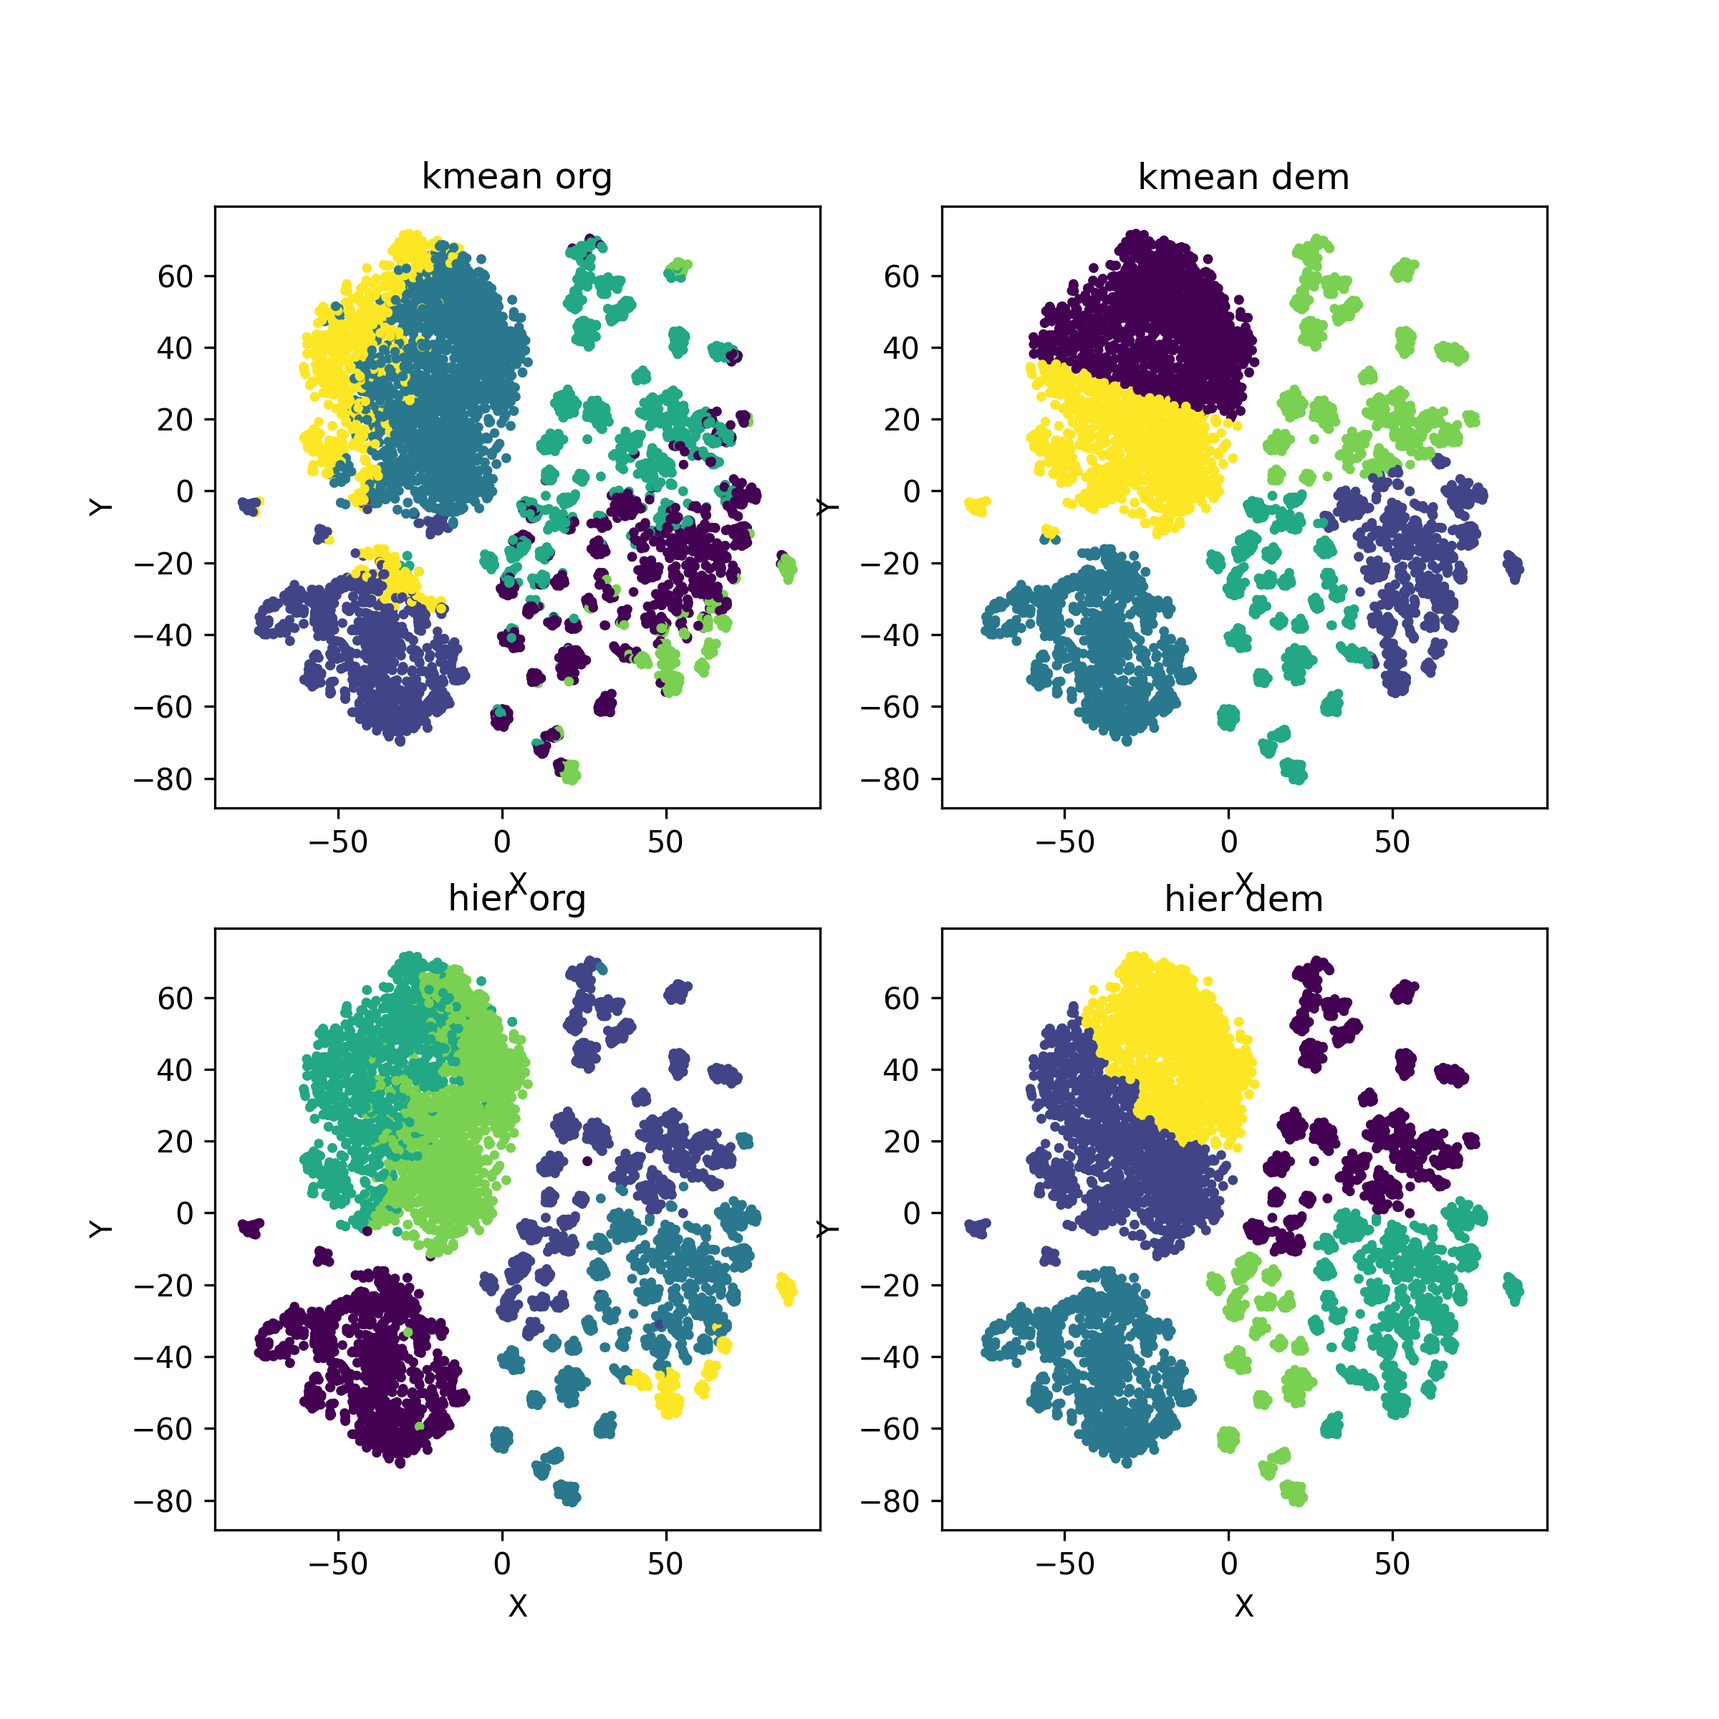
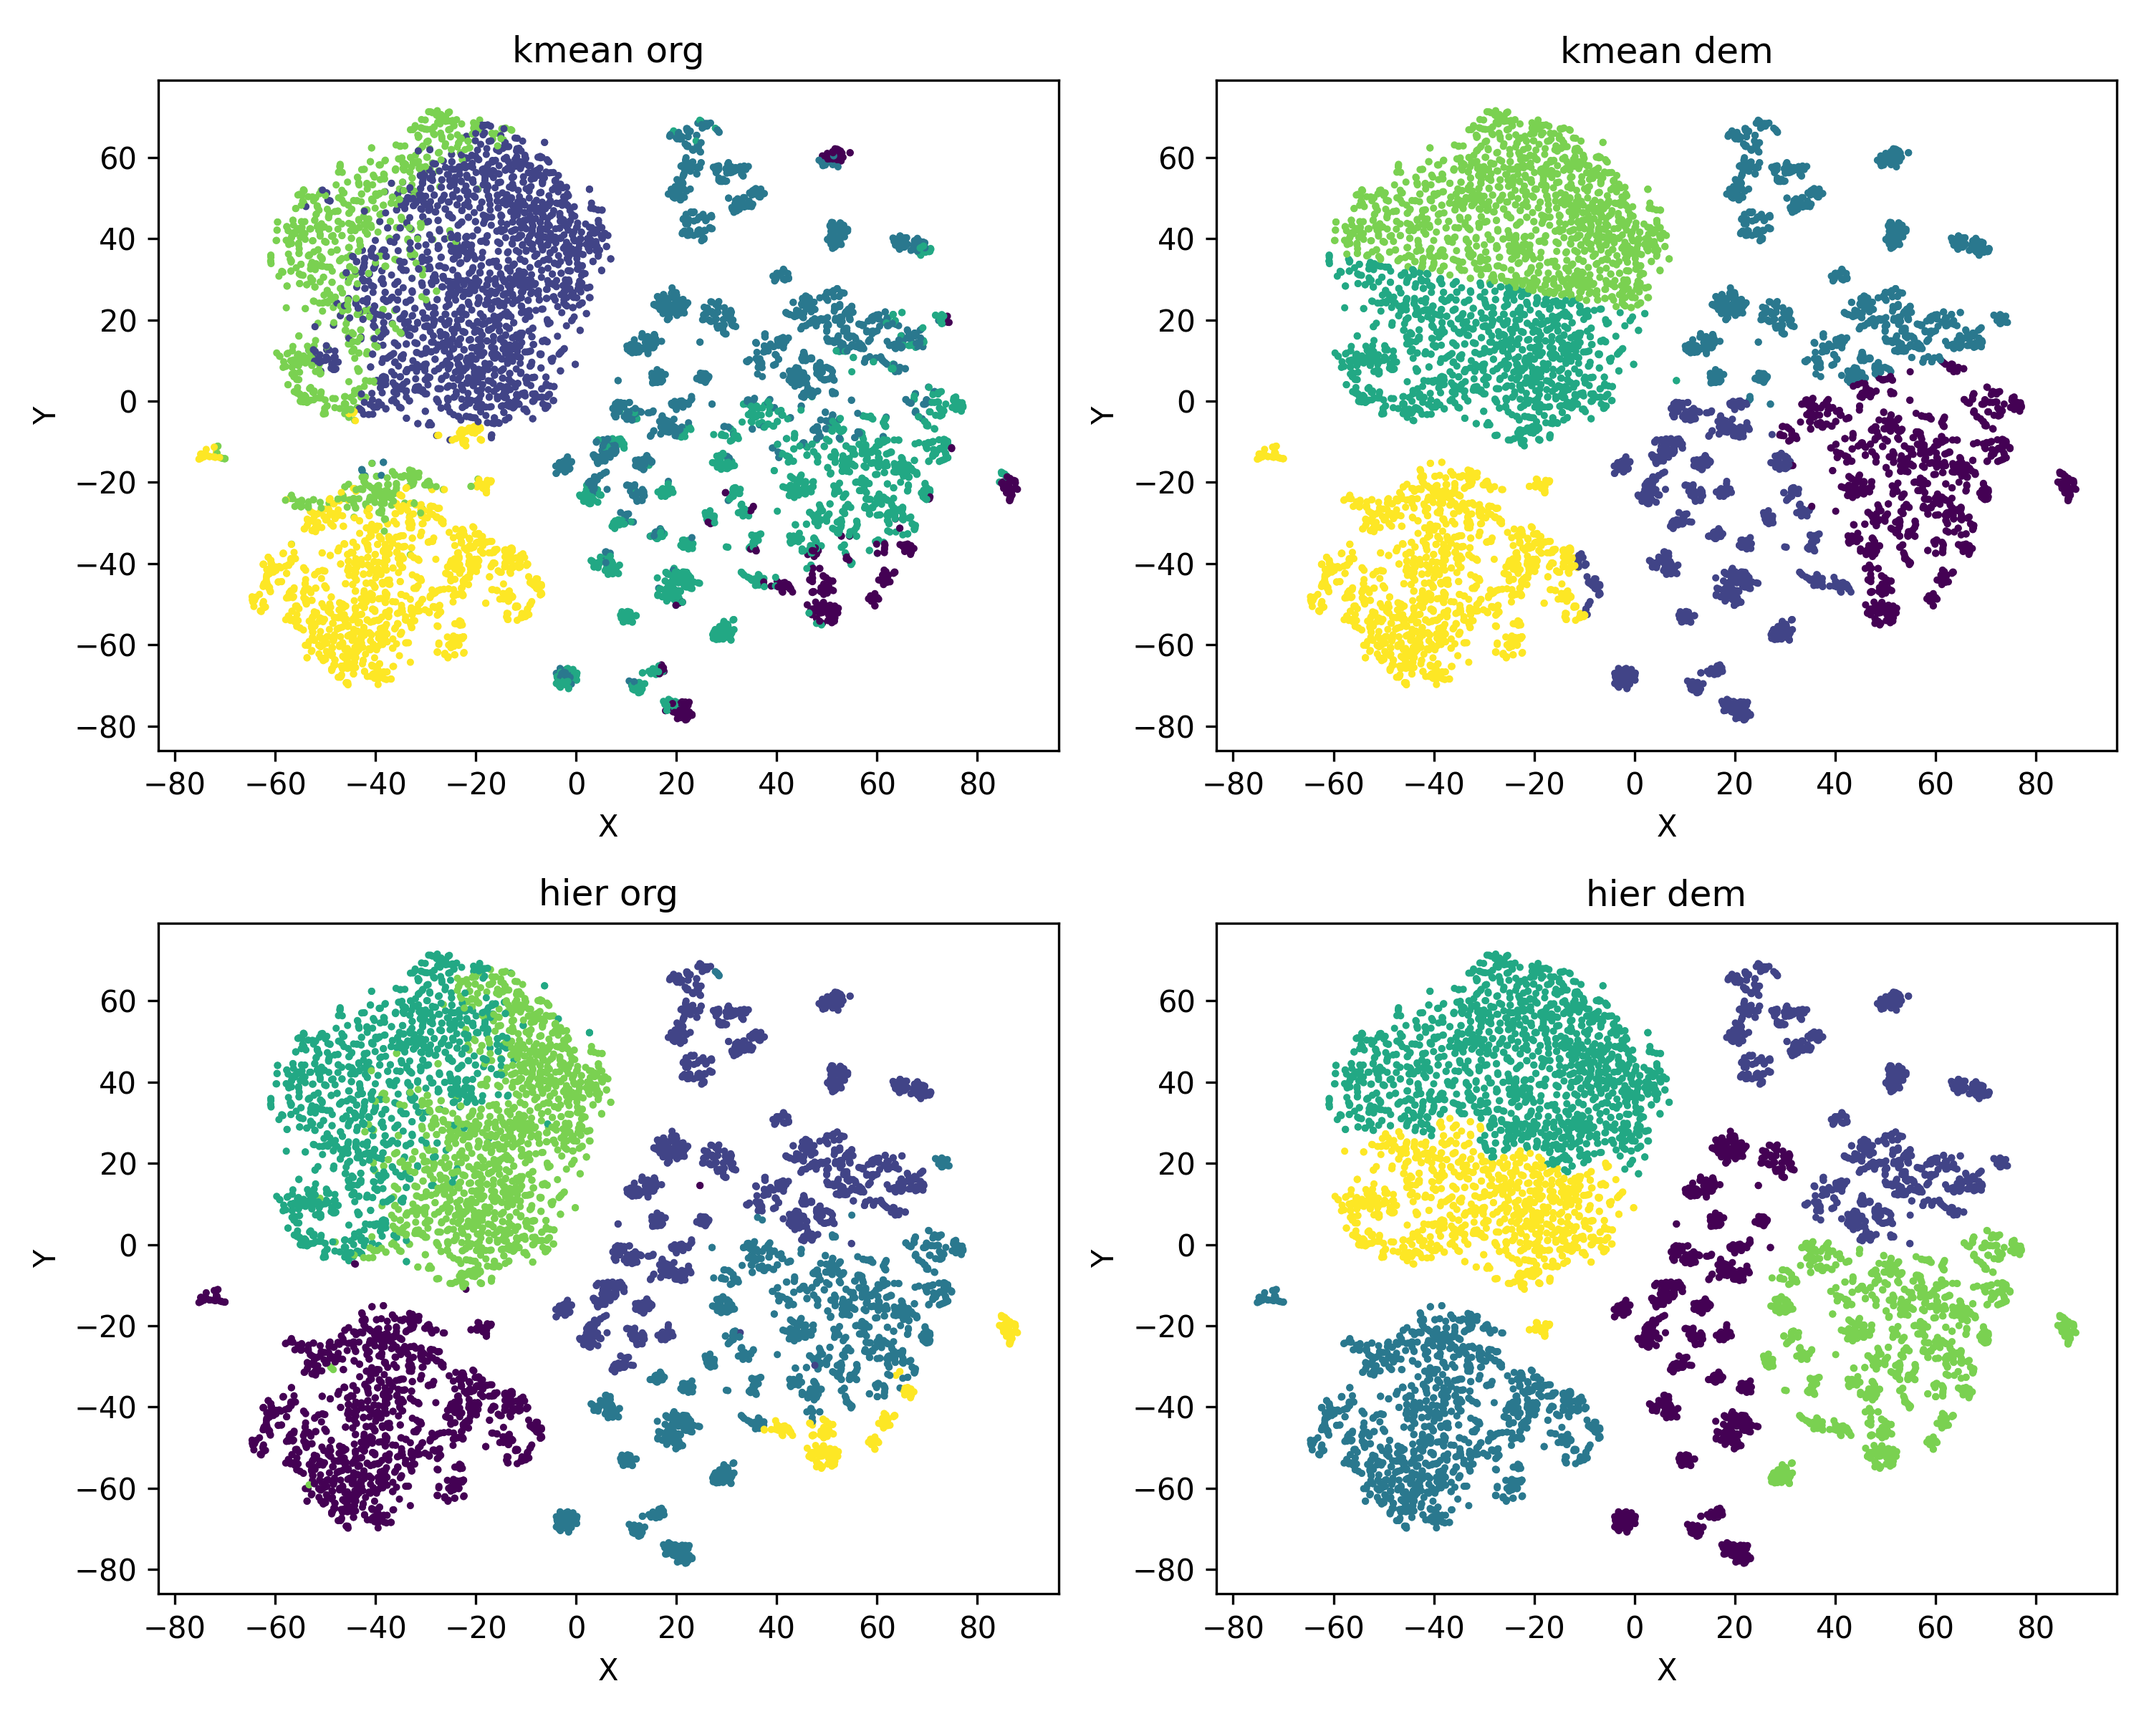
Update DSAA2011 Proj

diff --git a/DSAA2011/Proj/visualize.py b/DSAA2011/Proj/visualize.py
@@ -22,46 +22,63 @@ def plot(
         x = list[np.ndarray] | np.ndarray, 
         y = list[np.ndarray] | np.ndarray, 
         dim_target : int | list[int] = 3, 
-        need_dimension_reduction : bool | list[bool] = True,
-        name : list[str] | None = None,
+        name : list[str] | str | None = None,
+        label : dict[str] | None = None,
         save_path = None,
         ) :
     
     if type(x) == np.ndarray : x = [x]
-    if type(y) == np.ndarray : y = [y]
+    if type(y) == np.ndarray : y = [y] * len(x)
     if type(dim_target) == int : dim_target = [dim_target] * len(x)
-    if type(need_dimension_reduction) == bool : need_dimension_reduction = [need_dimension_reduction] * len(x)
+    if type(name) == str : name = [name] * len(x)
 
-    if len(x) != len(y) or len(x) != len(dim_target) or len(x) != len(need_dimension_reduction) :
+    if len(x) != len(y) or len(x) != len(dim_target) :
         raise ValueError("x, y, dim_target, need_dimension_reduction must have the same length")
     
     nrow = 1 if len(x) <= 3 else 2
     ncol = int(math.ceil(len(x) / nrow))
 
-    fig = plt.figure(figsize=(8, 8))
+    fig = plt.figure(figsize=(10, 8))
 
     if name is None :
         name = [f"Plot {i}" for i in range(len(x))]
 
     # write each plot in a different subplot
     for i in range(len(x)) :
+        
         if dim_target[i] == 2 :
             ax = fig.add_subplot(nrow, ncol, i + 1)
-            if need_dimension_reduction[i] :
-                x[i] = dimension_reduction(x[i], dim_target[i])
-            ax.scatter(x[i][:, 0], x[i][:, 1], c=y[i], s=5)
-            ax.set_title(name[i])
-            ax.set_xlabel("X")
-            ax.set_ylabel("Y")
+            if label is not None :
+                y_min = np.min(y[i])
+                y_max = np.max(y[i])
+
+                cmap = matplotlib.colormaps.get_cmap('viridis')
+                colors = [cmap((i - y_min) / (y_max - y_min)) for i in range(int(y_min), int(y_max) + 1)]
+                for j in range(int(y_min), int(y_max) + 1) :
+                    ax.scatter(x[i][y[i] == j, 0], x[i][y[i] == j, 1], s=2, color=colors[j - int(y_min)], label=label[j])
+            else :
+                ax.scatter(x[i][:, 0], x[i][:, 1], c=y[i], s=2)
         elif dim_target[i] == 3 :
             ax = fig.add_subplot(nrow, ncol, i + 1, projection='3d')
-            if need_dimension_reduction[i] :
-                x[i] = dimension_reduction(x[i], dim_target[i])
-            ax.scatter(x[i][:, 0], x[i][:, 1], x[i][:, 2], c=y[i], s=5)
-            ax.set_title(name[i])
-            ax.set_xlabel("X")
-            ax.set_ylabel("Y")
+            if label is not None :
+                y_min = np.min(y[i])
+                y_max = np.max(y[i])
+
+                cmap = matplotlib.colormaps.get_cmap('viridis')
+                colors = [cmap((i - y_min) / (y_max - y_min)) for i in range(int(y_min), int(y_max) + 1)]
+                for j in range(int(y_min), int(y_max) + 1) :
+                    ax.scatter(x[i][y[i] == j, 0], x[i][y[i] == j, 1], x[i][y[i] == j, 2], s=2, color=colors[j - int(y_min)], label=label[j])
+            else :
+                ax.scatter(x[i][:, 0], x[i][:, 1], x[i][:, 2], c=y[i], s=2)
+            
             ax.set_zlabel("Z")
+
+        ax.set_xlabel("X")
+        ax.set_ylabel("Y")
+        ax.set_title(name[i])
+        if label is not None :
+            ax.legend(loc='upper center', bbox_to_anchor=(0.5, -0.1), ncol=3)
+    plt.tight_layout()
 
     if save_path is not None :
         plt.savefig(save_path, dpi=300)
@@ -70,5 +87,6 @@ def plot(
 
 if __name__ == "__main__" :
     X, y = data.load_data("./Data/train", "train")
-
-    plot(X, y, 3)
+    X_tsne = dimension_reduction(X, 2, "TSNE")
+    X_pca = dimension_reduction(X, 2, "PCA")
+    plot([X_tsne], [y], dim_target=2, name="tsne", label=data.load_label_name("./Data"), save_path="visualization.png")

diff --git a/DSAA2011/Proj/predict.py b/DSAA2011/Proj/predict.py
@@ -4,15 +4,23 @@ from sklearn.tree import DecisionTreeClassifier
 from sklearn.ensemble import RandomForestClassifier, AdaBoostClassifier
 
 from sklearn.preprocessing import StandardScaler
-from sklearn.metrics import accuracy_score, classification_report
+from sklearn.metrics import accuracy_score, classification_report, confusion_matrix
 
+def evaluate(name, y_test, y_pred) :
+	print(f"metric of {name} :")
+
+	print(f"accuracy : {accuracy_score(y_test, y_pred)}")
+	print(classification_report(y_test, y_pred))
+
+	print(f"confusion matrix :\n{confusion_matrix(y_test, y_pred)}")
+	print()
 def pred_lr(X_train, y_train, X_test, y_test):
 	# Logistic Regression
 	lr = LogisticRegression(C=1e9, max_iter=1000)
 	lr.fit(X_train, y_train)
 	y_pred = lr.predict(X_test)
-	print("Logistic Regression Accuracy:", accuracy_score(y_test, y_pred))
-	print(classification_report(y_test, y_pred))
+	
+	evaluate("Logistic Regression", y_test, y_pred)
 
 def pred_dt(X_train, y_train, X_test, y_test):
 
@@ -24,8 +32,8 @@ def pred_dt(X_train, y_train, X_test, y_test):
 	dt = DecisionTreeClassifier()
 	dt.fit(X_train, y_train)
 	y_pred = dt.predict(X_test)
-	print("Decision Tree Accuracy:", accuracy_score(y_test, y_pred))
-	print(classification_report(y_test, y_pred))
+	
+	print("Decision Tree", accuracy_score(y_test, y_pred))
 
 def pred_rf(X_train, y_train, X_test, y_test):
 
@@ -37,8 +45,8 @@ def pred_rf(X_train, y_train, X_test, y_test):
 	rf = RandomForestClassifier(n_estimators=100)
 	rf.fit(X_train, y_train)
 	y_pred = rf.predict(X_test)
-	print("Random Forest Accuracy:", accuracy_score(y_test, y_pred))
-	print(classification_report(y_test, y_pred))
+	
+	evaluate("Random Forest", y_test, y_pred)
 
 def pred_ab(X_train, y_train, X_test, y_test):
 	scaler = StandardScaler()
@@ -49,8 +57,10 @@ def pred_ab(X_train, y_train, X_test, y_test):
 	ab = AdaBoostClassifier(n_estimators=100, estimator=DecisionTreeClassifier(max_depth=5))
 	ab.fit(X_train, y_train)
 	y_pred = ab.predict(X_test)
-	print("AdaBoost Accuracy:", accuracy_score(y_test, y_pred))
-	print(classification_report(y_test, y_pred))
+
+	evaluate("AdaBoost", y_test, y_pred)
+
+
 if __name__ == "__main__":
 	# Load the data
 	X_train, y_train = data.load_data("./Data/train", "train")

diff --git a/DSAA2011/Proj/data.py b/DSAA2011/Proj/data.py
@@ -5,7 +5,19 @@ def load_data(root_path, suffix) -> tuple[np.ndarray, np.ndarray]:
     y = np.loadtxt(f"{root_path}/y_{suffix}.txt")
     return X, y
 
+def load_label_name(root_path) -> dict[int, str] :
+    with open(f"{root_path}/activity_labels.txt", "r") as f:
+        lines = f.readlines()
+        label_name = {}
+        for line in lines:
+            line = line.strip().split()
+            label_name[int(line[0])] = line[1]
+    
+    return label_name
+
 if __name__ == "__main__" :
     X, y = load_data("./Data/train", "train")
+    label_name = load_label_name("./Data")
     print(X.shape)
     print(y.shape)
+    print(label_name)

diff --git a/DSAA2011/Proj/cluster.py b/DSAA2011/Proj/cluster.py
@@ -76,4 +76,6 @@ if __name__ == "__main__" :
 	visualize.plot(
 		[x_dem, x_dem, x_dem, x_dem], 
 		[labels_kmeans_org, labels_kmeans_dem, labels_hierarchical_org, labels_hierarchical_dem], 
-		2, False, ["kmean org", "kmean dem", "hier org", "hier dem"], "cluster.png")
+		dim_target=2, 
+		name=["kmean org", "kmean dem", "hier org", "hier dem"], 
+		save_path="cluster.png")
